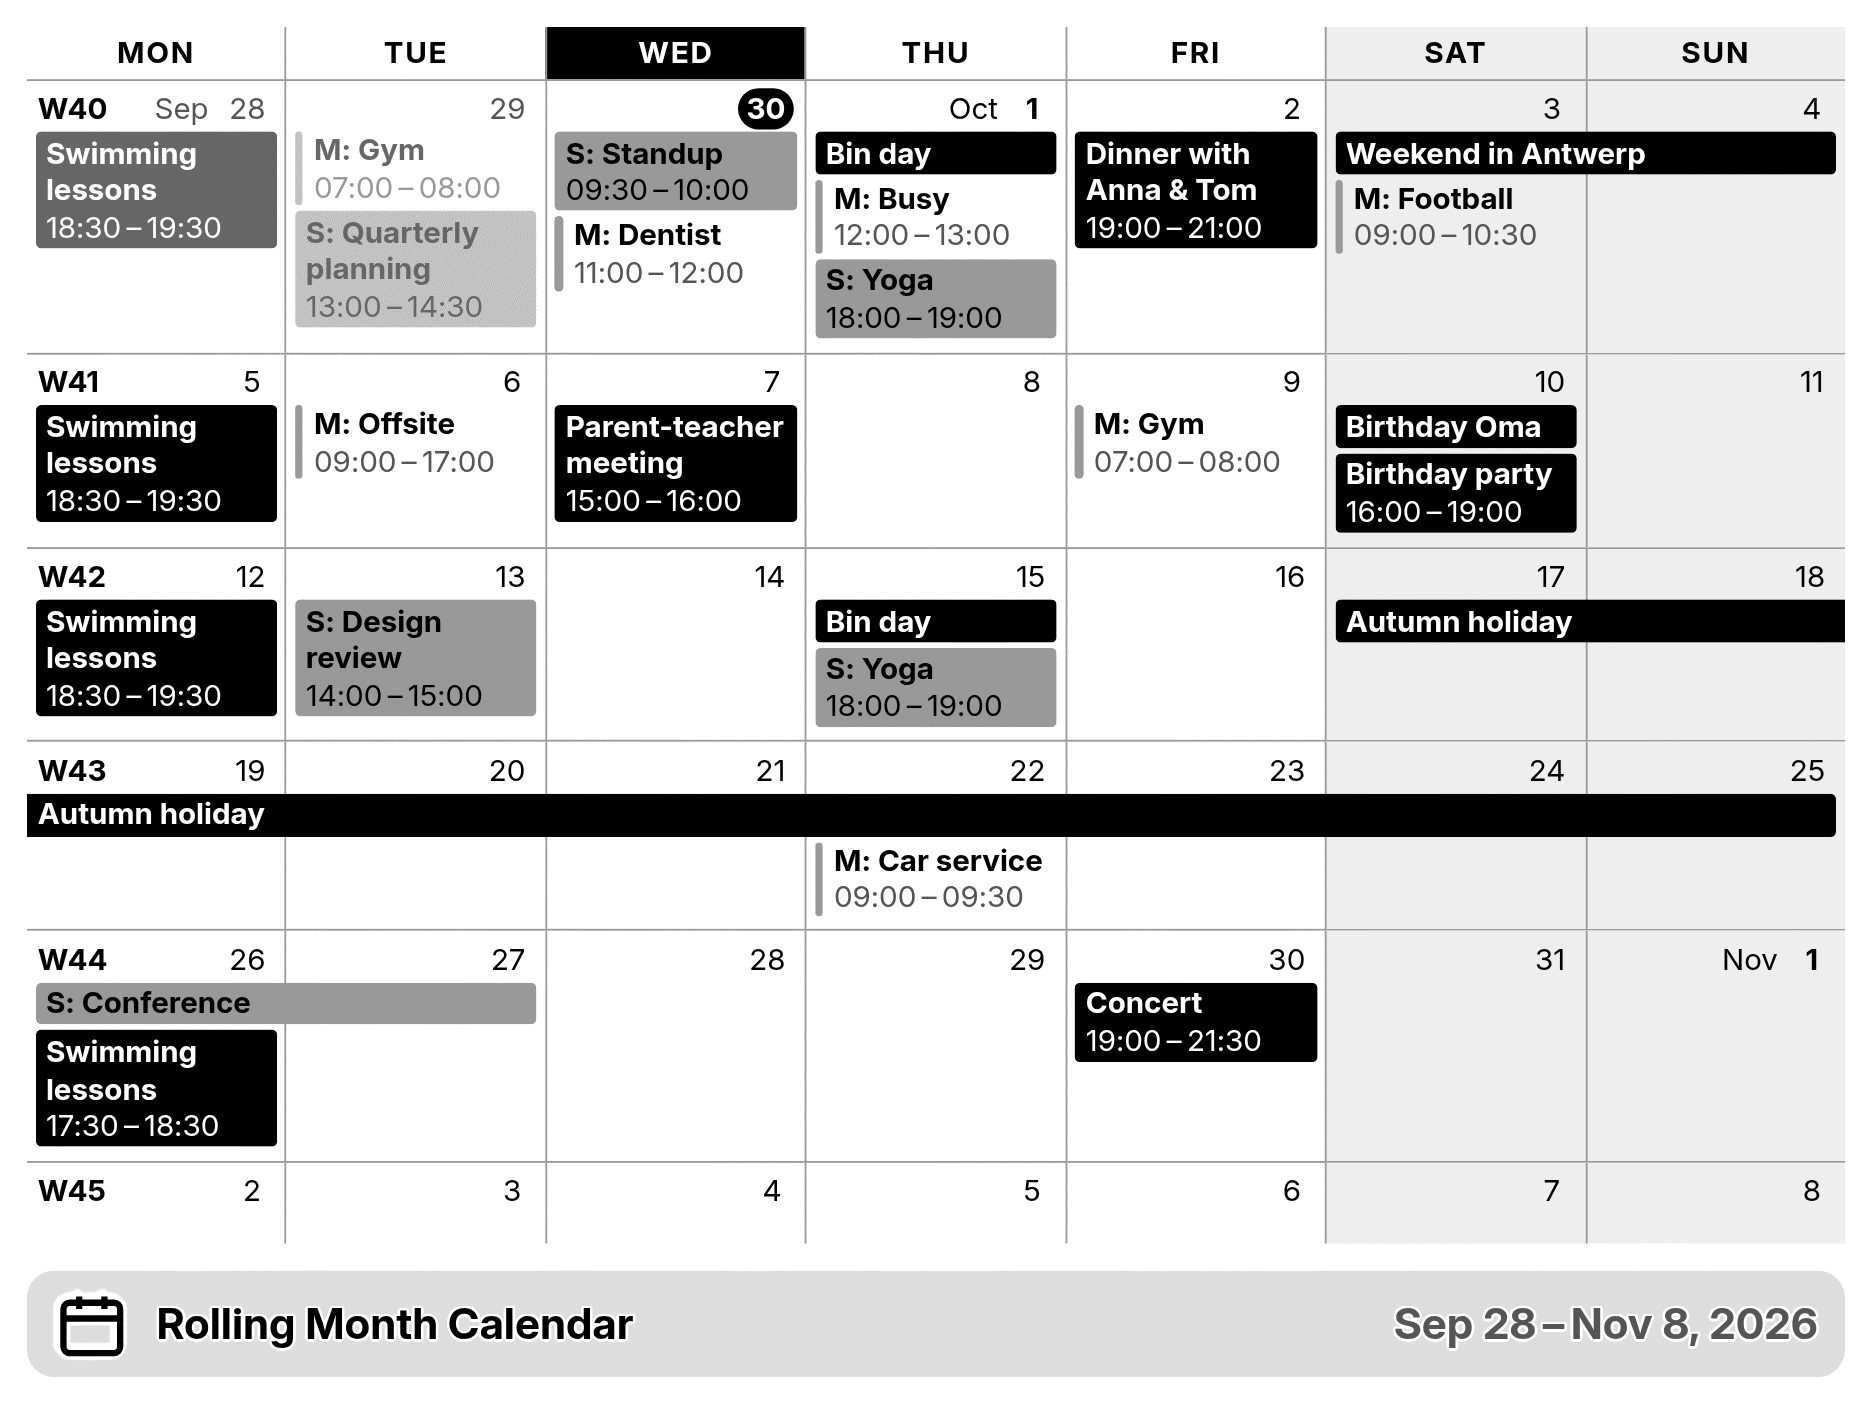
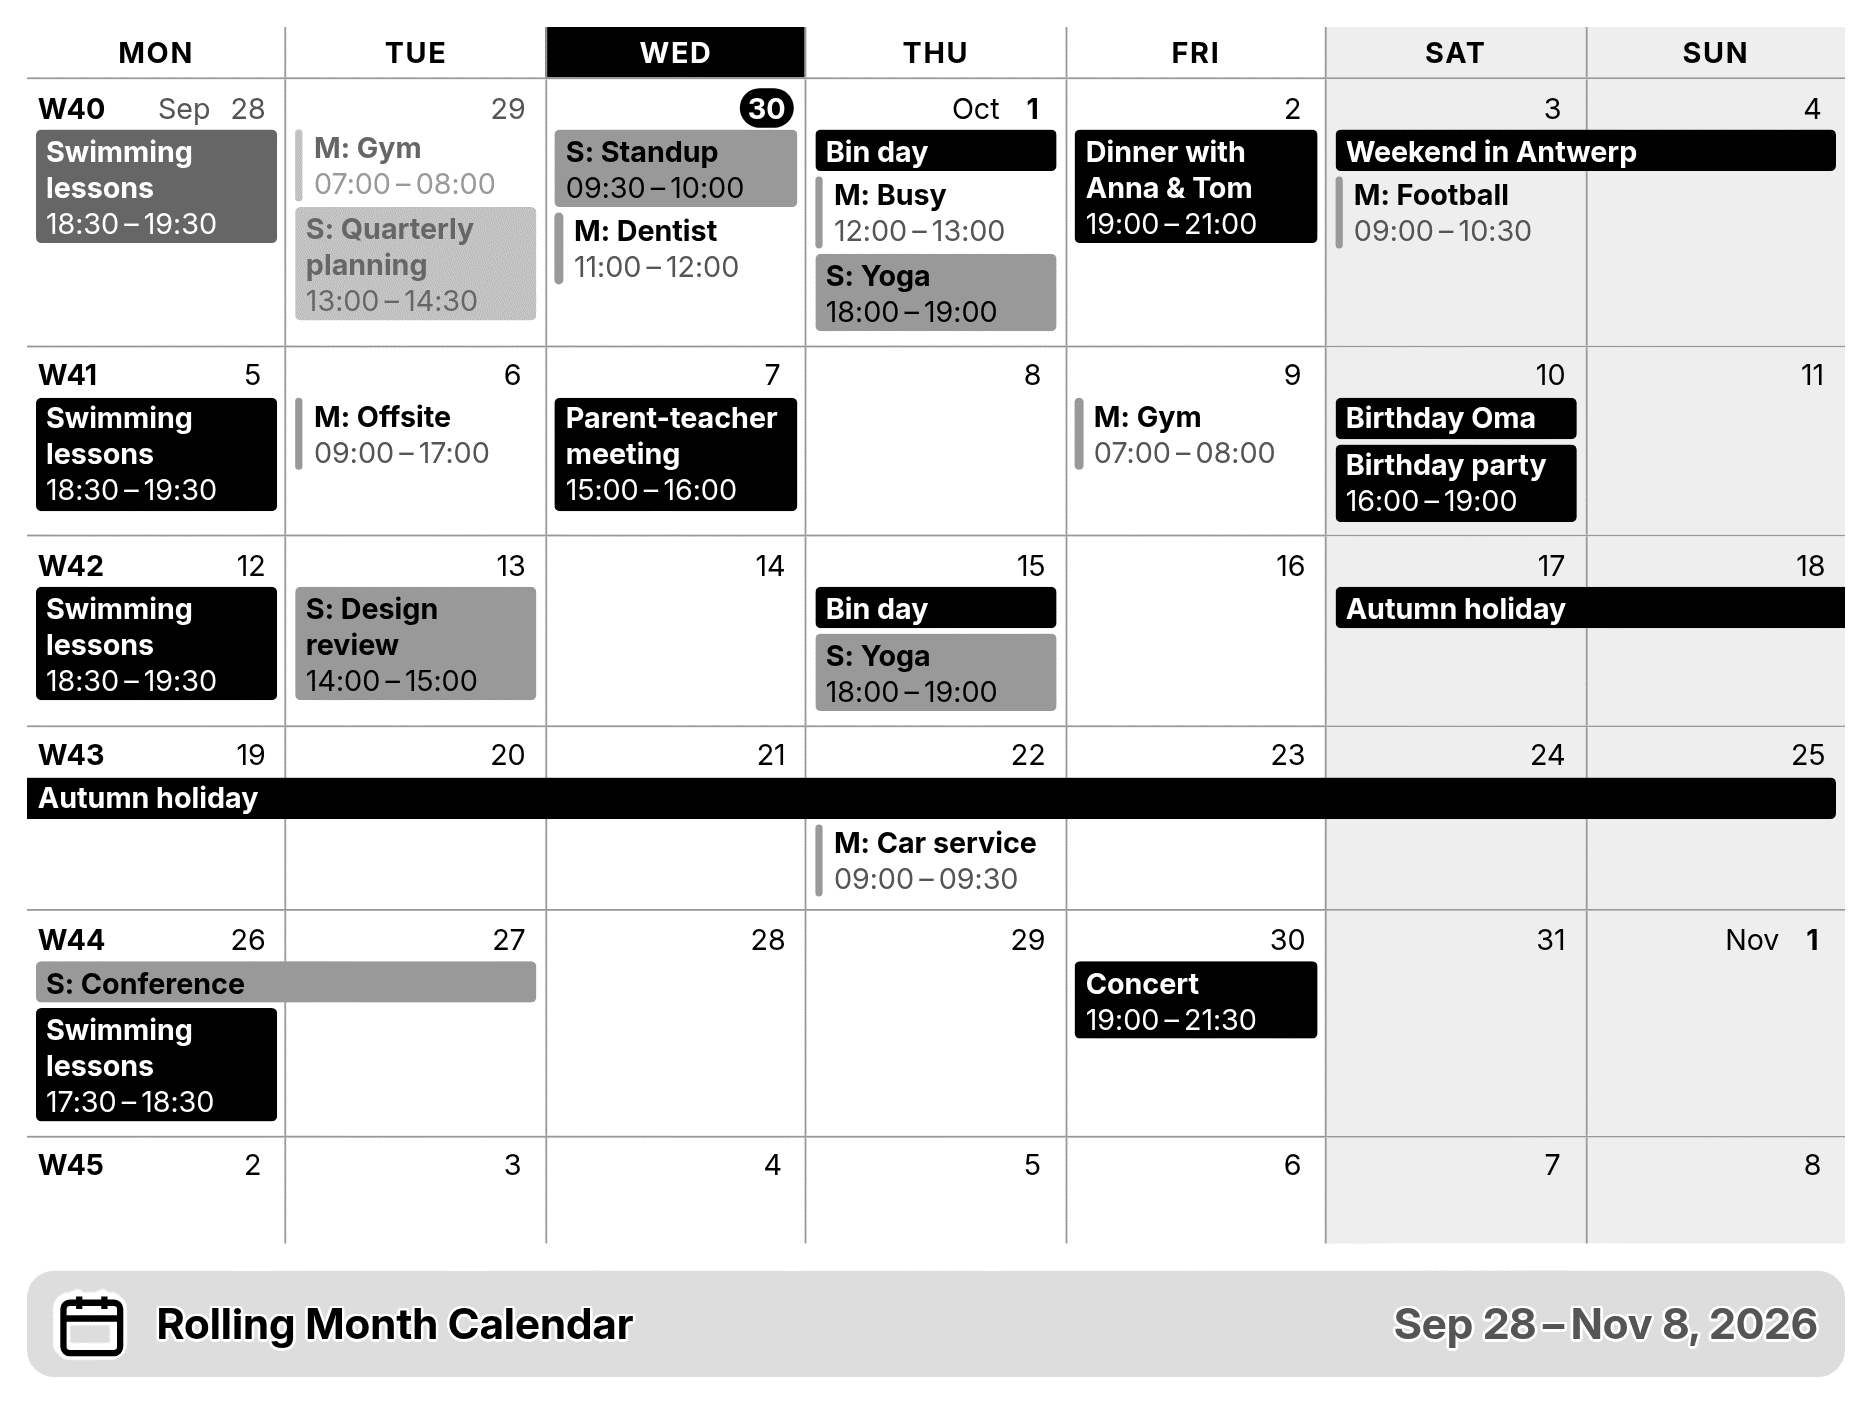
Same text size on TRMNL.com as on LaraPaper
TRMNL.com renders the X at the scale its owner picked (regular, --ui-scale 1,
by default), LaraPaper at xxlarge (1.5). Small text was 11px times that scale,
so 11px on TRMNL.com where v6 had 16px. It is now 16px times the device's scale
and the text-scale setting only, like upstream's fixed size. render.mjs gets
--scale, and ci.sh renders the merge variant at regular scale.

Claude-Session: https://claude.ai/code/session_01Xuqnjh6N6GFmNNU1kHvQzZ

diff --git a/CLAUDE.md b/CLAUDE.md
@@ -61,7 +61,9 @@ TRMNL X it uses a 1872×1404 window at 1×, classes `screen--v2 screen--4bit
 screen--scale-xxlarge`. The framework lays that out at 1040×780 and applies
 `transform: scale(1.8)` to `.screen`, plus `--ui-scale: 1.5`. `render.mjs` reproduces
 this; previews without the framework loaded are misleading (no fonts → Times New
-Roman, wrong sizes).
+Roman, wrong sizes). TRMNL.com renders the X at the scale its owner picked (regular,
+`--ui-scale: 1`, by default; `render.mjs --scale regular`), so the calendar's text size
+doesn't follow `--ui-scale` (see the `--font-small-font-size` override in `shared.liquid`).
 
 **FullCalendar under the transform.** FullCalendar measures with
 `getBoundingClientRect()`, which includes the transform, so `shared.liquid` patches it
